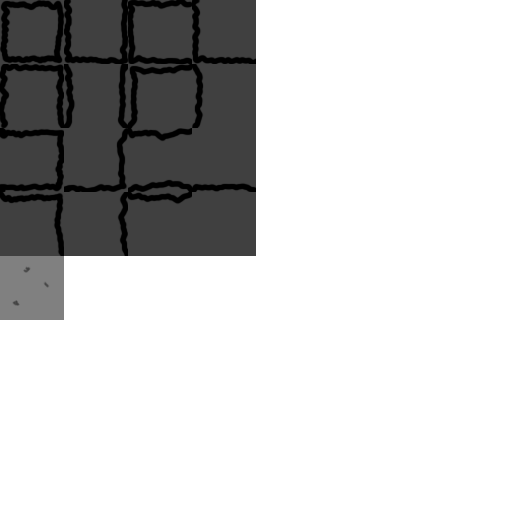
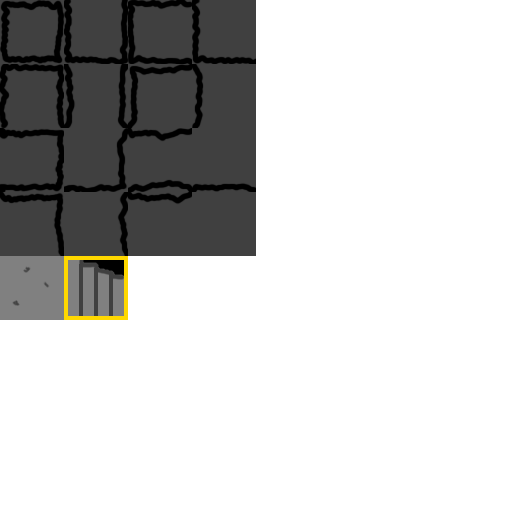
Added ability to progress between dungeon levels

Changed region(s): [[0.125, 0.5, 0.25, 0.625]]

diff --git a/Assets/Scripts/Levels/CurrentLevel.cs b/Assets/Scripts/Levels/CurrentLevel.cs
@@ -5,25 +5,36 @@ public class CurrentLevel
 {
     private static TileType[,] tiles;
     private static Vector3 playerStartingPosition;
-    private static float encounterRate = 0.1f;
+    private static TilemapPainter tilemapPainter;
 
     public static string currentEnemyName = "Bat";
-    private static List<string> levelEnemies = 
-        new List<string>() { "Slime", "Bat" };
-    private static List<float> enemyEncounterChances = 
-        new List<float>() { 0.5f, 0.5f };
+    private static Level activeLevel;
 
-    public static void generateLevel(int width, int height)
+    public static void SetTilemapPainter(TilemapPainter painter)
     {
-        tiles = new TileType[width, height];
-        //TODO actual generation logic
-        for (int x = 0; x < width; x++)
+        tilemapPainter = painter;
+        if (tiles != null)
         {
-            for (int y = 0; y < height; y++)
+            tilemapPainter.PaintLevel(tiles);
+        }
+    }
+
+    public static void InitLevel(Level level)
+    {
+        activeLevel = level;
+        tiles = new TileType[level.width, level.height];
+        //TODO actual generation logic
+        for (int x = 0; x < level.width; x++)
+        {
+            for (int y = 0; y < level.height; y++)
             {
-                if (x == 0 || y == 0 || x == width - 1 || y == height - 1)
+                if (x == 0 || y == 0 || x == level.width - 1 || y == level.height - 1)
                 {
                     tiles[x, y] = TileType.WALL;
+                }
+                else if (x == level.width - 2 && y == level.height - 2)
+                {
+                    tiles[x, y] = TileType.STAIRS;
                 }
                 else
                 {
@@ -32,6 +43,10 @@ public class CurrentLevel
             }
         }
         playerStartingPosition = new Vector3(1.5f, 1.5f, 0);
+        if (tilemapPainter != null)
+        {
+            tilemapPainter.PaintLevel(tiles);
+        }
     }
 
     public static Vector3 GetPlayerStartingPosition()
@@ -52,7 +67,18 @@ public class CurrentLevel
 
     public static MoveResult Move(Vector2 targetPosition)
     {
-        if (Random.value < encounterRate)
+        if (tiles[(int) targetPosition.x, (int) targetPosition.y] == TileType.STAIRS)
+        {
+            //TODO load next level
+            Level nextLevel = Cache.GetLevel(activeLevel.floor + 1);
+            if (nextLevel != null)
+            {
+                InitLevel(nextLevel);
+                return MoveResult.STAIRSDOWN;
+            }
+        }
+
+        if (Random.value < activeLevel.encounterRate)
         {
             SelectEnemy();
             return MoveResult.BATTLE;
@@ -68,19 +94,19 @@ public class CurrentLevel
         float randomVal = Random.value;
         float totalEncounterChance = 0;
         currentEnemyName = "";
-        for (int i = 0; i < enemyEncounterChances.Count; i++)
+        for (int i = 0; i < activeLevel.enemyEncounterRates.Length; i++)
         {
-            totalEncounterChance += enemyEncounterChances[i];
+            totalEncounterChance += activeLevel.enemyEncounterRates[i];
             if (randomVal <= totalEncounterChance)
             {
-                currentEnemyName = levelEnemies[i];
+                currentEnemyName = activeLevel.enemies[i];
                 break;
             }
         }
 
         if (currentEnemyName == "")
         {
-            currentEnemyName = levelEnemies[levelEnemies.Count - 1];
+            currentEnemyName = activeLevel.enemies[0];
         }
     }
 }

diff --git a/Assets/Scripts/Levels/CustomTile.cs b/Assets/Scripts/Levels/CustomTile.cs
@@ -8,6 +8,7 @@ public class CustomTile : Tile
     private TileType type;
 
     public Sprite floor;
+    public Sprite stairs;
     public Sprite[] wallSprites;
 
     public void Init(TileType type)
@@ -21,6 +22,7 @@ public class CustomTile : Tile
             wallSprites[i] = (Sprite)wallSpriteObjects[i + 1];
         }
         floor = (Sprite)wallSpriteObjects[17];
+        stairs = (Sprite)wallSpriteObjects[18];
     }
 
     public TileType GetTileType()
@@ -30,7 +32,7 @@ public class CustomTile : Tile
 
     public override void RefreshTile(Vector3Int location, ITilemap tilemap)
     {
-        if (type == TileType.FLOOR)
+        if (type != TileType.WALL)
         {
             tilemap.RefreshTile(location);
         }
@@ -53,6 +55,11 @@ public class CustomTile : Tile
         if (type == TileType.FLOOR)
         {
             tileData.sprite = floor;
+            return;
+        }
+        if (type == TileType.STAIRS)
+        {
+            tileData.sprite = stairs;
             return;
         }
 

diff --git a/Assets/Scripts/Levels/PlayerController.cs b/Assets/Scripts/Levels/PlayerController.cs
@@ -95,6 +95,13 @@ public class PlayerController : MonoBehaviour
                 case MoveResult.BATTLE:
                     SceneManager.LoadScene("BattleScene");
                     break;
+                case MoveResult.STAIRSDOWN:
+                    // Update player position to new level map position
+                    PlayerStatus.MapPosition = CurrentLevel.GetPlayerStartingPosition();
+                    this.transform.position = PlayerStatus.MapPosition;
+                    inventoryInput.SetInventoryEnabled(true);
+                    CheckInput();
+                    break;
                 case MoveResult.NOTHING:
                     // Check input as soon as move is finished so there's no jittering
                     inventoryInput.SetInventoryEnabled(true);

diff --git a/Assets/Scripts/Levels/TilemapPainter.cs b/Assets/Scripts/Levels/TilemapPainter.cs
@@ -14,10 +14,11 @@ public class TilemapPainter : MonoBehaviour
         //TODO won't want to generate on awake, only when new level is needed - 
         //ideally before loading the scene
         //CurrentLevel.generateLevel(width, height);
-        paintLevel(CurrentLevel.getTiles());
+        //paintLevel(CurrentLevel.getTiles());
+        CurrentLevel.SetTilemapPainter(this);
     }
 
-    private void paintLevel(TileType[,] tiles)
+    public void PaintLevel(TileType[,] tiles)
     {
         tileMap.ClearAllTiles();
         int xLength = tiles.GetLength(0);

diff --git a/Assets/Scripts/GameInitialization.cs b/Assets/Scripts/GameInitialization.cs
@@ -11,7 +11,8 @@ public class GameInitialization
 
     public static void StartNewGame()
     {
-        CurrentLevel.generateLevel(10, 10);
+        Level level1 = Cache.GetLevel(1);
+        CurrentLevel.InitLevel(level1);
         PlayerStatus.Restart();
         SceneManager.LoadScene("MapScene");
         hasInitialized = true;

diff --git a/Assets/Scripts/Data/Cache.cs b/Assets/Scripts/Data/Cache.cs
@@ -68,6 +68,10 @@ public class Cache
     public static Level GetLevel(int floor)
     {
         Load();
+        if (!levels.ContainsKey(floor))
+        {
+            return null;
+        }
         return levels[floor];
     }
 

diff --git a/Assets/Scripts/Levels/MoveResult.cs b/Assets/Scripts/Levels/MoveResult.cs
@@ -7,5 +7,6 @@ using UnityEngine;
 public enum MoveResult
 {
     NOTHING,
+    STAIRSDOWN,
     BATTLE
 }
